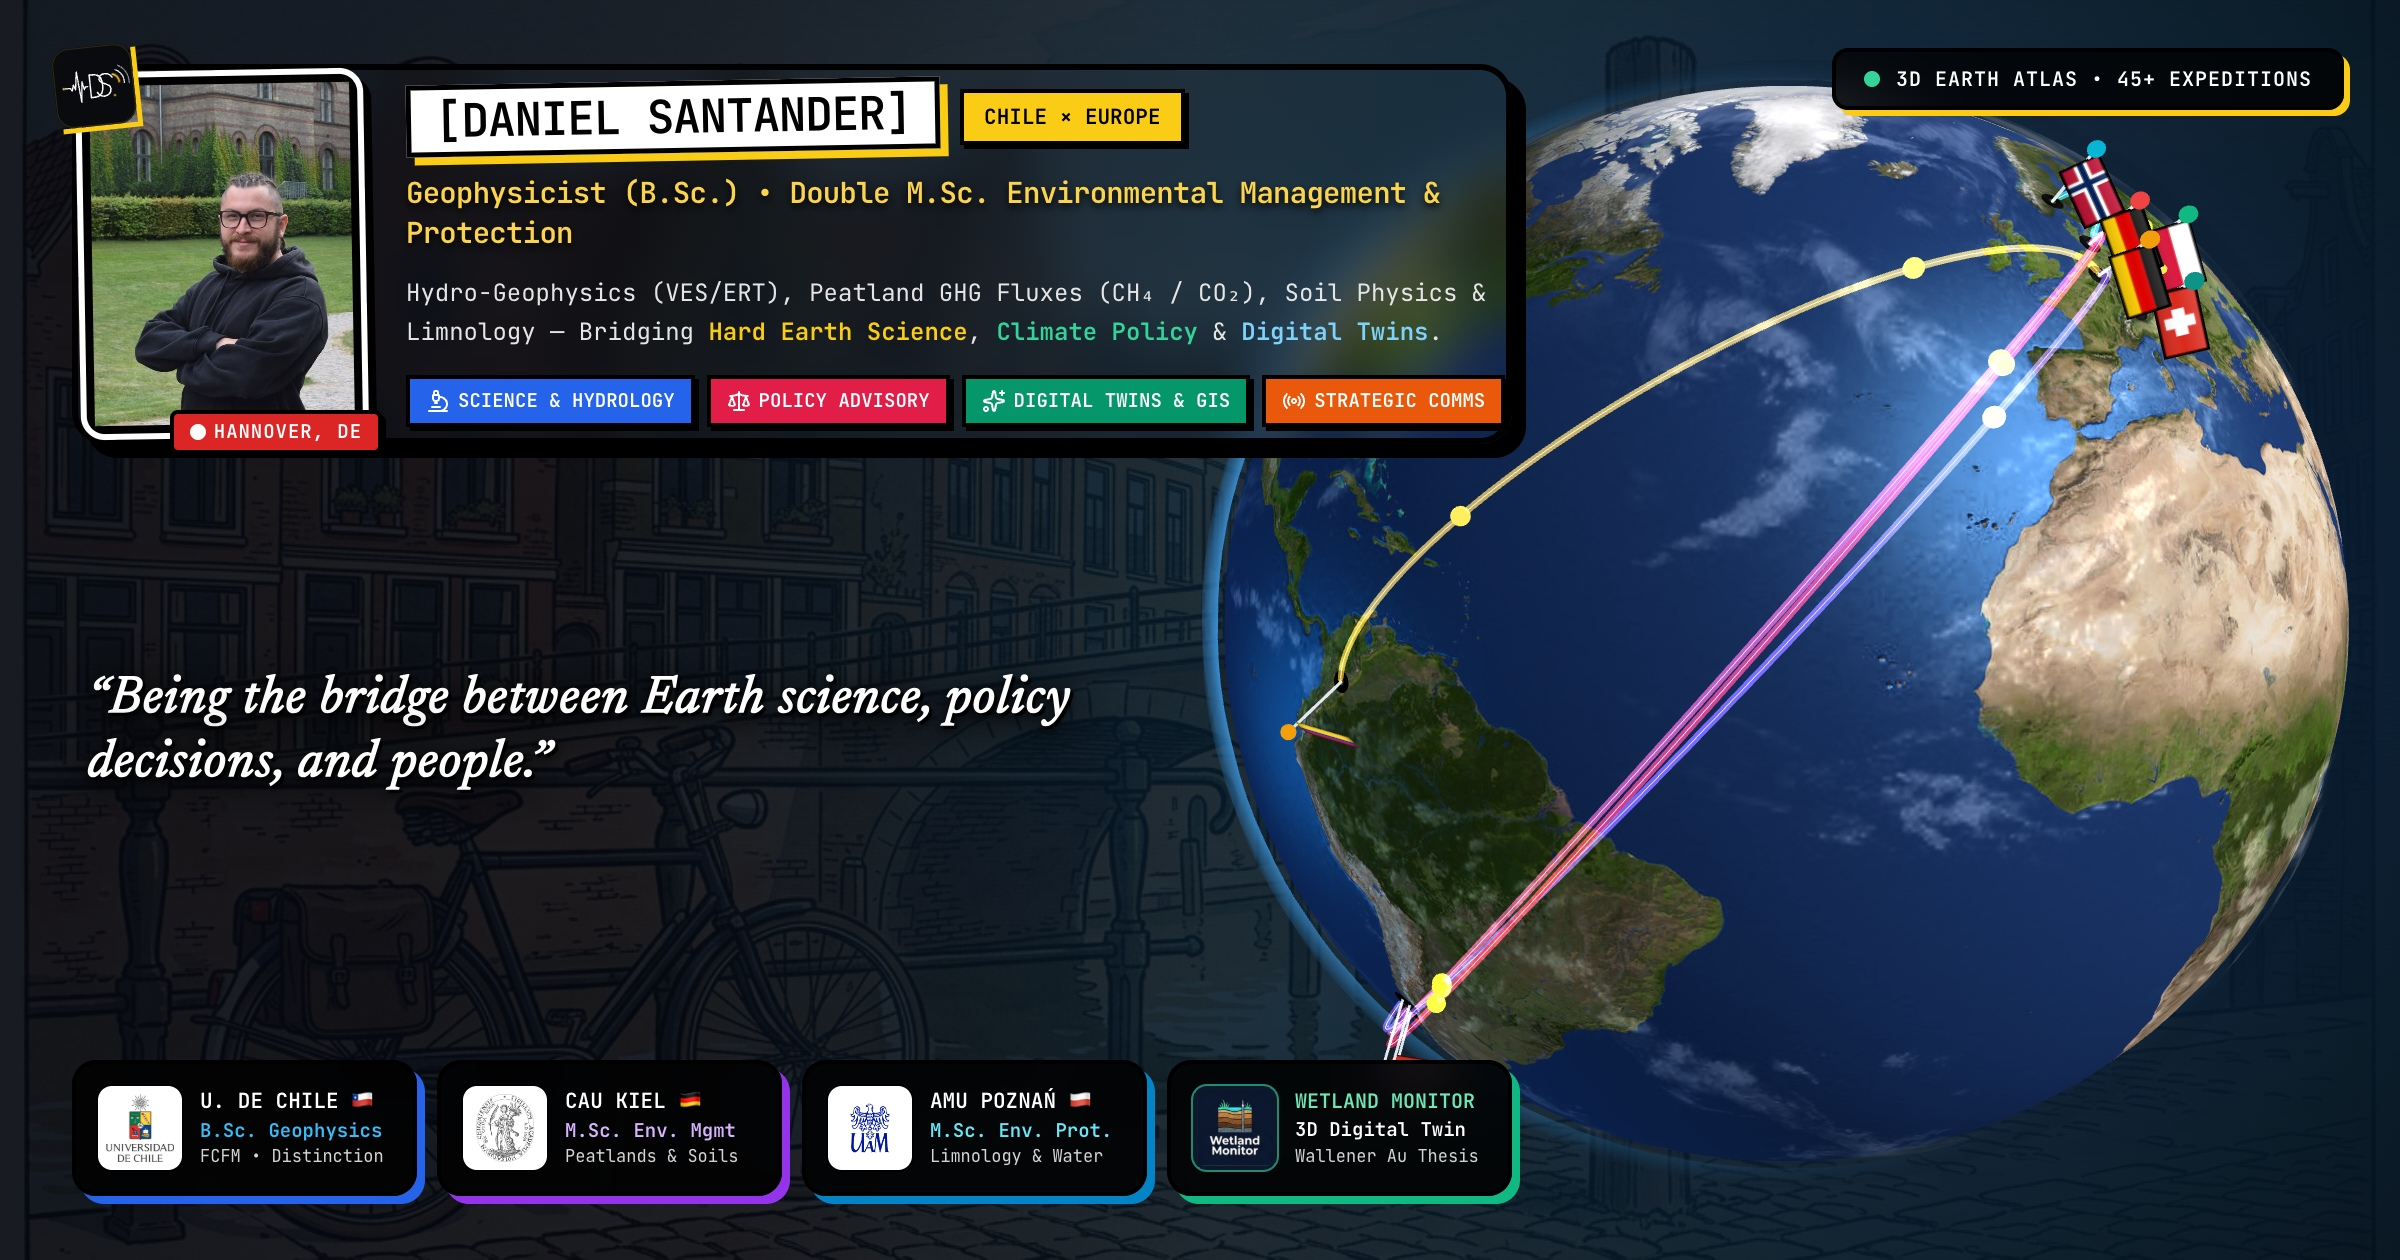
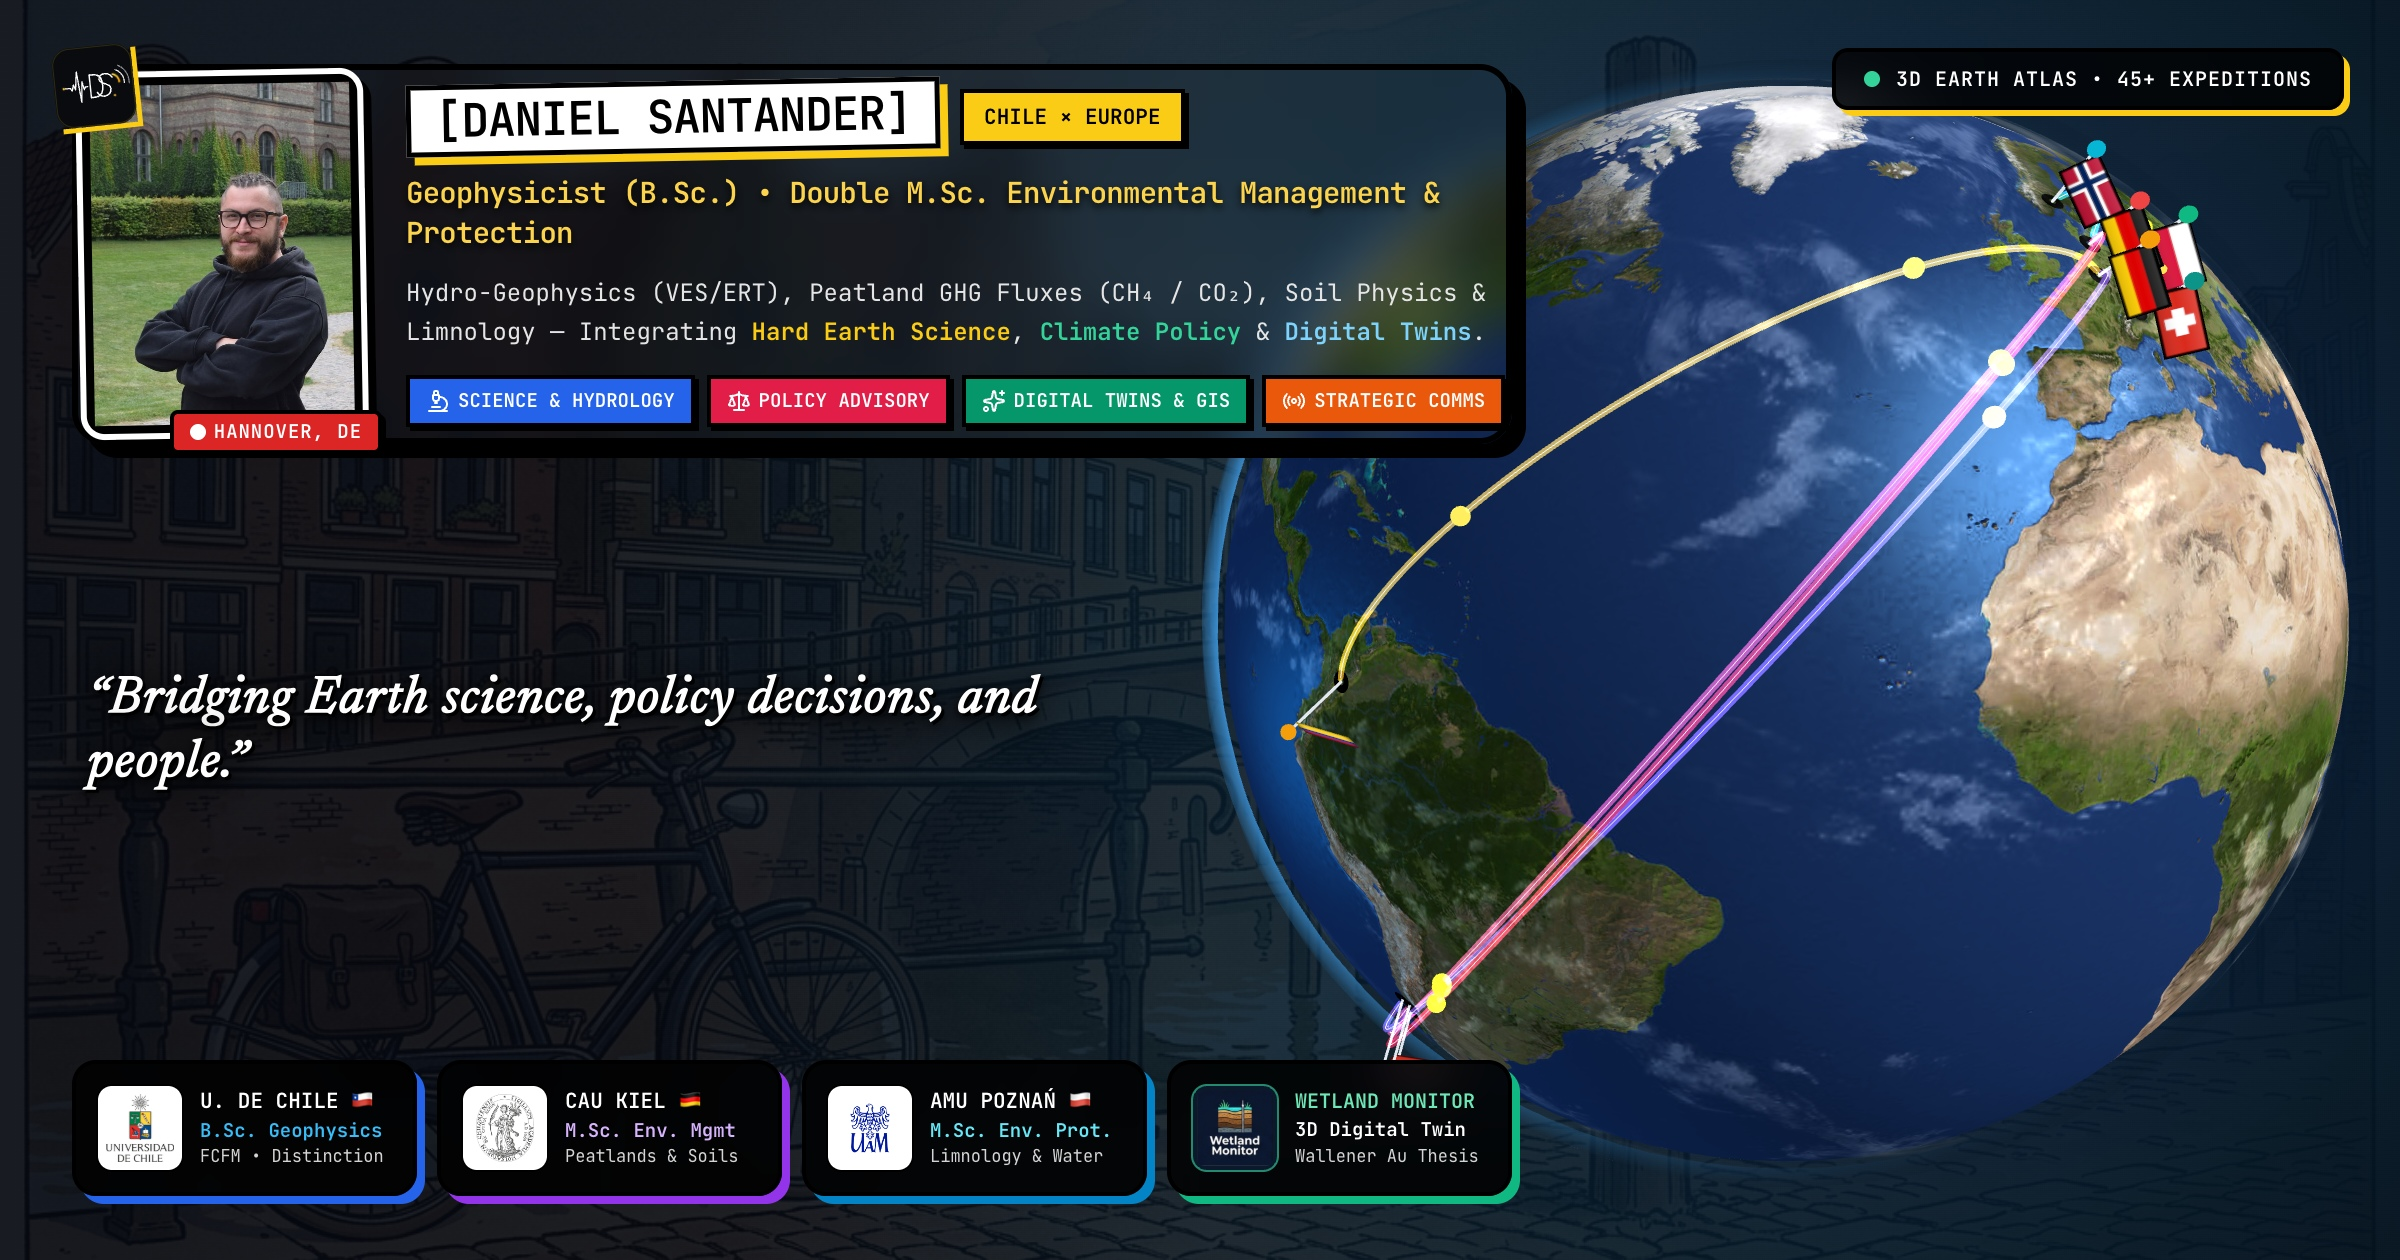
feat: update slogan to Option A (ES: Puente entre..., EN: Bridging...)

Changed region(s): [[0.0312, 0.5262, 0.4688, 0.619], [0.25, 0.2476, 0.625, 0.2786]]

diff --git a/src/components/OgBannerWebCanvas.tsx b/src/components/OgBannerWebCanvas.tsx
@@ -335,7 +335,7 @@ export const OgBannerWebCanvas: React.FC<OgBannerWebCanvasProps> = ({ onReady })
             </div>
 
             <p className="text-[12px] font-mono text-neutral-200 leading-relaxed">
-              Hydro-Geophysics (VES/ERT), Peatland GHG Fluxes (CH₄ / CO₂), Soil Physics &amp; Limnology — Bridging <strong className="text-[#facc15]">Hard Earth Science</strong>, <strong className="text-emerald-400">Climate Policy</strong> &amp; <strong className="text-sky-300">Digital Twins</strong>.
+              Hydro-Geophysics (VES/ERT), Peatland GHG Fluxes (CH₄ / CO₂), Soil Physics &amp; Limnology — Integrating <strong className="text-[#facc15]">Hard Earth Science</strong>, <strong className="text-emerald-400">Climate Policy</strong> &amp; <strong className="text-sky-300">Digital Twins</strong>.
             </p>
 
             {/* Quick Pillar Pills on a Single Line */}
@@ -365,7 +365,7 @@ export const OgBannerWebCanvas: React.FC<OgBannerWebCanvasProps> = ({ onReady })
                 '0 2px 5px rgba(0,0,0,0.98), 0 4px 16px rgba(0,0,0,0.95), 0 0 28px rgba(0,0,0,0.9), 1.5px 1.5px 0px #000000',
             }}
           >
-            “Being the bridge between Earth science, policy decisions, and people.”
+            “Bridging Earth science, policy decisions, and people.”
           </p>
         </div>
 

diff --git a/src/components/PunkMainMenu.tsx b/src/components/PunkMainMenu.tsx
@@ -321,8 +321,8 @@ export const PunkMainMenu: React.FC<PunkMainMenuProps> = ({
             }}
           >
             {currentLang === 'es'
-              ? '“Siendo el puente entre la ciencia de la Tierra, la decisión política y las personas.”'
-              : '“Being the bridge between Earth science, policy decisions, and people.”'}
+              ? '“Puente entre la ciencia de la Tierra, la decisión política y las personas.”'
+              : '“Bridging Earth science, policy decisions, and people.”'}
           </p>
         </div>
       </div>
